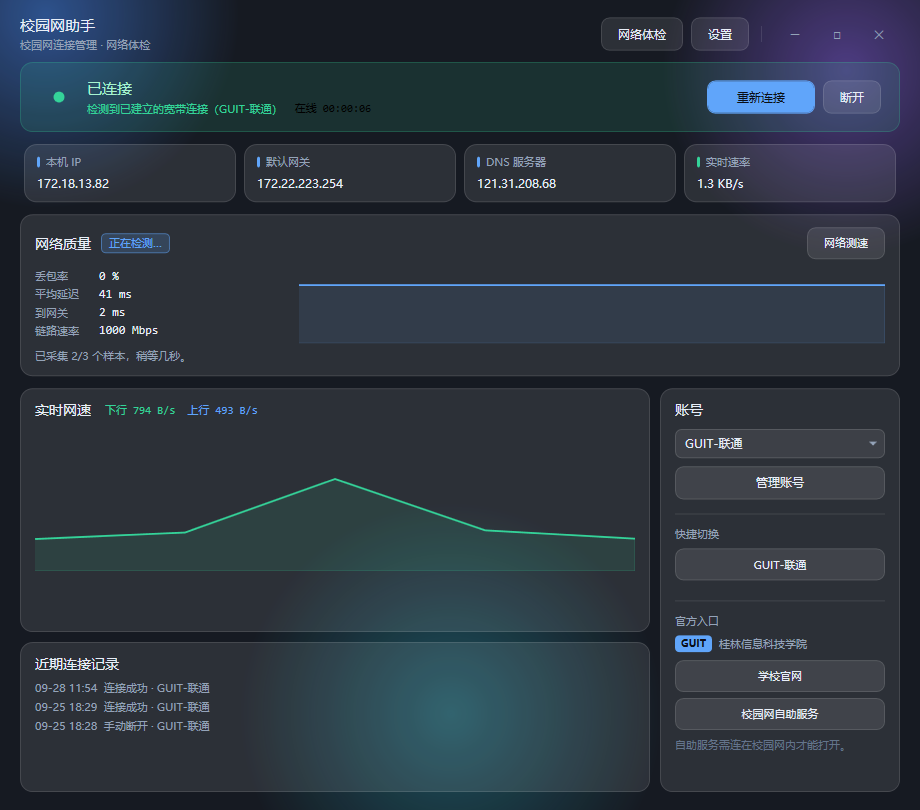
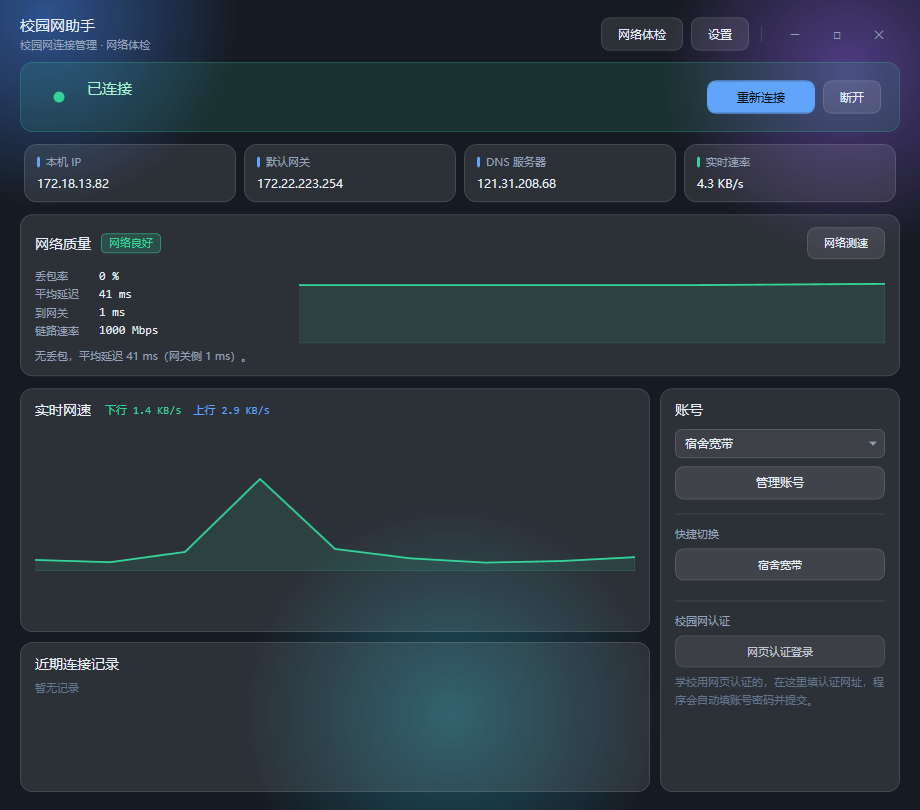
移除校内信息 + 校园网网页认证拨号 + 图形验证码处理
一、去掉全部学校痕迹
- MainWindow：移除 GUIT 标识、学校名称、学校官网 / 自助服务两个按钮
- DialEngine：去掉注释里残留的校内连接名（GUITISP / [GUIT-联通]）
- SiteConfig：自助服务地址改为默认网页认证地址（留空）
- 源码全文检索 guit / 桂林 已无命中

二、校园网认证模块重做
- 原「学校官网」区块改为「校园网认证」：只保留一个入口按钮
- WebAuthWindow：内嵌 IE11 内核浏览器 + 网址/账号/密码三行
  - 自动填表：密码框 → 账号框 → 提交按钮（通用启发式，不写死任何学校）
  - 填值后主动触发 focus/onchange/onkeyup/blur，兼容大多数门户的校验
  - 导航完成后 6 次 × 1.2s 重试窗口，规避页面异步渲染
  - 提交后 5 秒探测外网，回填结果提示
- 网址来源：SiteConfig.DefaultWebAuthUrl 兜底 + 用户手填，可保存

三、图形验证码
- 新增 HasCaptcha()：页面出现验证码控件时只填表、绝不提交
- 明确提示用户手动输入验证码后点登录，程序不代劳

四、配套
- build_check.bat：加入 SiteConfig.cs / KeepAlive.cs / WebAuthWindow.cs 与
  WindowsFormsIntegration.dll 引用
- README：下载与功能说明更新，隐私说明据实重写
- docs/：两张界面截图用通用测试账号重新生成（不再出现真实连接名）

编译：csc 全绿（BUILD SUCCESS）

diff --git a/MainWindow.cs b/MainWindow.cs
@@ -91,28 +91,21 @@ namespace CampusNetHelper
         private Border _historyCard;
         private Border _accountCard;
         private Border _titleBarArea;
-        private Border _guitBadge;              // 「官方入口」里的 GUIT 徽标
-        private TextBlock _guitBadgeText;
 
         internal const string FontUi = "Microsoft YaHei UI, Microsoft YaHei, Segoe UI";
         internal const string FontMono = "Consolas, Microsoft YaHei UI";
         internal const string VersionText = "1.1.0";
 
         // ==================================================================
-        // 官方入口地址
+        // 本校专属默认值
         //
-        // 学校官网 —— 公网可访问，写在这里没有隐私问题。
+        // 这个项目刻意保持**通用** —— 源码里不放任何学校的具体信息。
+        // （校徽、校名、学校官网链接、校内自助服务地址，已于 2026-09-28 全部移除。）
         //
-        // 自助服务 —— 属于校内网地址（只有连着校园网才能打开），是"本校专属信息"，
-        // 所以**不硬编码在源码里**，改由 SiteConfig 提供：
-        //   · SiteConfig.cs         自己的真实地址，已被 .gitignore 排除
+        // 确实需要"本校专属"的默认值统一放 SiteConfig，好处是它不进公开仓库：
+        //   · SiteConfig.cs         自己填的真实值，已被 .gitignore 排除
         //   · SiteConfig.sample.cs  提交到仓库的空模板，首次构建时自动生成上面那个
-        // 留空时界面上不显示这个入口（不给死链）。
-        //
-        // 这两个地址都来自学校官方客户端界面本身，是学校公开给学生使用的。
-        // 本工具只提供"打开链接"，不调用其中的任何接口。
         // ==================================================================
-        internal const string UrlSchool = "https://www.guit.edu.cn";
 
         // ==================================================================
         // 按钮样式（缓存，避免每次创建都解析 XAML）
@@ -1218,73 +1211,20 @@ namespace CampusNetHelper
 
             stack.Children.Add(MakeLabel("校园网认证"));
 
-            // GUIT 标识：小徽标 + 校名。
-            // 这一栏两个入口都是本校的服务，放上校名标识让学生一眼认出来，
-            // 也免得"校园网自助服务"那个内网地址被当成来路不明的外链。
-            var brandRow = new StackPanel
-            {
-                Orientation = Orientation.Horizontal,
-                Margin = new Thickness(0, 8, 0, 2)
-            };
-
-            _guitBadgeText = new TextBlock
-            {
-                Text = "GUIT",
-                FontSize = 10,
-                FontWeight = FontWeights.Bold,
-                Foreground = new SolidColorBrush(Theme.OnAccent)
-            };
-            _guitBadge = new Border
-            {
-                Background = new SolidColorBrush(Theme.Accent),
-                CornerRadius = new CornerRadius(4),
-                Padding = new Thickness(6, 2, 6, 2),
-                VerticalAlignment = VerticalAlignment.Center,
-                Child = _guitBadgeText
-            };
-            brandRow.Children.Add(_guitBadge);
-
-            var schoolName = new TextBlock
-            {
-                Text = "桂林信息科技学院",
-                FontSize = 11,
-                Margin = new Thickness(7, 0, 0, 0),
-                VerticalAlignment = VerticalAlignment.Center,
-                Foreground = new SolidColorBrush(Theme.TextMuted)
-            };
-            _mutedTexts.Add(schoolName);
-            brandRow.Children.Add(schoolName);
-
-            stack.Children.Add(brandRow);
-
-            // 网页认证入口：有些学校的校园网不是 PPPoE 拨号，
-            // 而是打开一个网页填账号密码点登录。这个按钮就是干那个的。
+            // 这张卡片现在只做一件事：网页认证登录。
+            //
+            // 原来这里放的是"本校专属"的几个入口（校徽 + 校名、学校官网、校园网自助服务）。
+            // 为了让整个项目保持**通用**、也为了公开仓库里不出现任何本校信息，已经全部移除。
+            // 学校相关的默认值统一放在 SiteConfig.cs 里（已被 .gitignore 排除，不进公开仓库）。
             var btnAuth = MakeGhostButton("网页认证登录", delegate() { OpenWebAuthWindow(); });
             btnAuth.HorizontalAlignment = HorizontalAlignment.Stretch;
-            btnAuth.Margin = new Thickness(0, 6, 0, 6);
+            btnAuth.Margin = new Thickness(0, 8, 0, 0);
             btnAuth.FontSize = 11;
             stack.Children.Add(btnAuth);
 
-            var btnSite = MakeGhostButton("学校官网", delegate() { OpenUrl(UrlSchool); });
-            btnSite.HorizontalAlignment = HorizontalAlignment.Stretch;
-            btnSite.Margin = new Thickness(0, 6, 0, 6);
-            btnSite.FontSize = 11;
-            stack.Children.Add(btnSite);
-
-            // 自助服务是校内专属入口，地址来自 SiteConfig（不在公开源码里）。
-            // 没配置就不显示 —— 免得给出一个点不开的死链。
-            if (SiteConfig.SelfServiceUrl.Length > 0)
-            {
-                var btnSelf = MakeGhostButton("校园网自助服务",
-                    delegate() { OpenUrl(SiteConfig.SelfServiceUrl); });
-                btnSelf.HorizontalAlignment = HorizontalAlignment.Stretch;
-                btnSelf.FontSize = 11;
-                stack.Children.Add(btnSelf);
-
-                var linkHint = MakeHint("自助服务需连在校园网内才能打开。");
-                linkHint.Margin = new Thickness(0, 8, 0, 0);
-                stack.Children.Add(linkHint);
-            }
+            var authHint = MakeHint("学校用网页认证的，在这里填认证网址，程序会自动填账号密码并提交。");
+            authHint.Margin = new Thickness(0, 8, 0, 0);
+            stack.Children.Add(authHint);
 
             card.Child = stack;
             return card;
@@ -1324,16 +1264,6 @@ namespace CampusNetHelper
             foreach (TextBlock t in _mutedTexts)
             {
                 t.Foreground = new SolidColorBrush(Theme.TextMuted);
-            }
-
-            // GUIT 徽标
-            if (_guitBadge != null)
-            {
-                _guitBadge.Background = new SolidColorBrush(Theme.Accent);
-            }
-            if (_guitBadgeText != null)
-            {
-                _guitBadgeText.Foreground = new SolidColorBrush(Theme.OnAccent);
             }
 
             // 顶栏按钮

diff --git a/WebAuthWindow.cs b/WebAuthWindow.cs
@@ -493,6 +493,22 @@ namespace CampusNetHelper
                 SetValue(pw, pass);
 
                 WinForms.HtmlElement submit = FindSubmit(all);
+
+                // ⚠ 有图形验证码就**只填不提交** —— 见 HasCaptcha 的注释。
+                // 验证码那格是空的，硬提交必然失败；而学校普遍对"连续登录失败"有次数限制，
+                // 反复失败可能直接把账号锁一段时间。宁可让用户自己点一下。
+                if (HasCaptcha(all))
+                {
+                    SetStatus("这个页面有图形验证码 —— 账号密码已经帮你填好了，"
+                        + "验证码需要你自己看一眼填进去，然后点页面上的「登录」按钮。");
+                    if (lblFound != null)
+                    {
+                        lblFound.Text = "识别结果：账号框「" + Describe(us) + "」 密码框「" + Describe(pw)
+                            + "」；页面有图形验证码 → 已填好，但不自动提交";
+                    }
+                    return true;
+                }
+
                 if (submit == null)
                 {
                     SetStatus("账号密码已填好，但没找到「登录」按钮 —— 请手动点一下页面上的登录。");
@@ -622,6 +638,52 @@ namespace CampusNetHelper
             }
             catch { }
             return list;
+        }
+
+        /// <summary>
+        /// 判断页面上有没有图形验证码。
+        ///
+        /// 为什么必须检测、而且检测到就**不能自动提交**：
+        ///   验证码的设计目的就是"证明这一步是人在操作"。
+        ///   程序把账号密码填好就提交 → 验证码那格是空的 → 提交必然失败。
+        ///   而学校普遍对"连续登录失败"有次数限制，反复失败可能把账号锁一段时间。
+        ///   所以宁可停手，让用户自己看一眼验证码、填进去、点登录。
+        ///
+        /// 这里**刻意不做验证码自动识别**：
+        ///   ① 识别验证码等于绕过它 —— 它的存在就是为了挡住自动化，这是它的设计意图；
+        ///   ② 现在学校多用滑块 / 点选 / 行为验证（极验、腾讯验证码那一类），
+        ///      根本不是图片字符，OCR 也认不出来。
+        ///   结论：这件事交给用户，只在界面上把话说明白。
+        /// </summary>
+        private static bool HasCaptcha(List<WinForms.HtmlElement> all)
+        {
+            string[] keys = new string[]
+            {
+                "captcha", "verifycode", "verify_code", "checkcode", "check_code",
+                "validatecode", "validate_code", "vcode", "authcode", "imgcode",
+                "randcode", "seccode", "verificationcode", "yzm", "yanzhengma",
+                "captchaimg", "codeimg"
+            };
+
+            foreach (WinForms.HtmlElement el in all)
+            {
+                string tag = TagOf(el);
+                if (tag != "img" && tag != "input" && tag != "canvas"
+                    && tag != "span" && tag != "div" && tag != "label" && tag != "a") continue;
+
+                string blob = (AttrOf(el, "id") + " " + AttrOf(el, "name") + " "
+                    + AttrOf(el, "src") + " " + AttrOf(el, "alt") + " "
+                    + AttrOf(el, "class") + " " + AttrOf(el, "title") + " "
+                    + AttrOf(el, "onclick")).ToLowerInvariant();
+
+                if (blob.IndexOf("验证码", StringComparison.Ordinal) >= 0) return true;
+
+                foreach (string k in keys)
+                {
+                    if (blob.IndexOf(k, StringComparison.Ordinal) >= 0) return true;
+                }
+            }
+            return false;
         }
 
         private static string DescribeDoc(List<WinForms.HtmlElement> all)

diff --git a/SiteConfig.sample.cs b/SiteConfig.sample.cs
@@ -1,24 +1,27 @@
 namespace CampusNetHelper
 {
     /// <summary>
-    /// 本校专属配置 —— **这是模板文件，可以提交到版本库**。
+    /// 本校专属默认值 —— **这是模板文件，可以提交到版本库**。
     ///
     /// 首次构建时，build_check.bat 会自动把这个文件复制成 SiteConfig.cs。
-    /// 而 SiteConfig.cs 已被 .gitignore 排除 —— 你自己学校的地址不会进公开仓库。
+    /// 而 SiteConfig.cs 已被 .gitignore 排除 —— 你自己的学校信息不会进公开仓库。
     ///
-    /// 想换成自己学校：直接改 SiteConfig.cs（或改这里再删掉 SiteConfig.cs 重新构建），
-    /// 填上地址后重新编译即可。
+    /// 为什么要留这么一个文件：
+    ///   这个项目刻意保持**通用** —— 源码里不放任何学校的具体信息
+    ///   （校徽、校名、学校官网、校内地址都已经移除）。
+    ///   但你自己用的时候，肯定希望默认值已经填好，不用每次手输。
+    ///   两者兼顾的办法就是：通用逻辑写在源码里，本校专属的值放这里。
     /// </summary>
     internal static class SiteConfig
     {
         /// <summary>
-        /// 校园网自助服务入口。
+        /// 网页认证的默认网址。
         ///
-        /// 这类入口通常只有校内网才能访问（比如 10.x / 172.16.x / 192.168.x 开头的地址），
-        /// 填在源码里等于把学校的内部地址公开出去，所以单独放到这个文件里。
+        /// 留空 → 界面上就是空的，由使用者自己填（公开仓库构建出来的就是这个状态）。
+        /// 填上 → 编译出来的版本打开就是预填好的，适合发给自己学校的同学。
         ///
-        /// 留空 → 主界面「官方入口」里不显示这个按钮（避免给出一个点不开的死链）。
+        /// 例如："http://10.0.0.1/srun_portal_pc.php"
         /// </summary>
-        internal const string SelfServiceUrl = "";
+        internal const string DefaultWebAuthUrl = "";
     }
 }

diff --git a/DialEngine.cs b/DialEngine.cs
@@ -24,7 +24,7 @@ namespace CampusNetHelper
         /// 这样带来三个好处：
         ///   ① rasdial.exe 默认就读这个文件，创建完立即可拨；
         ///   ② 系统「网络和共享中心」里能看到同一个连接，两边始终一致；
-        ///   ③ 学校官方客户端建的连接（如 GUITISP）也能被本工具读到并直接使用。
+        ///   ③ 学校官方客户端建的连接也能被本工具读到并直接使用。
         /// </summary>
         public static string PhonebookPath
         {
@@ -405,7 +405,7 @@ namespace CampusNetHelper
         ///
         /// Windows 电话簿的条目里有两个字段：
         ///   ApnInfoUsername / ApnInfoPassword
-        /// 学校客户端建的连接通常会把真实宽带账号写在这里（实测本机 [GUIT-联通] 两项都有值），
+        /// 学校客户端建的连接通常会把真实宽带账号写在这里（实测本机两项都有值），
         /// 因此可以做到"选一个连接就把账号密码一起带进来"。
         /// 读不到的（例如凭据被存进凭据管理器、字段留空）就返回空串，让用户自己补。
         /// </summary>

diff --git a/MainWindow.Logic.cs b/MainWindow.Logic.cs
@@ -258,7 +258,10 @@ namespace CampusNetHelper
 
         internal string WebAuthUrl()
         {
-            return ConfigStore.GetString(_settings, "WebAuthUrl", "");
+            string v = ConfigStore.GetString(_settings, "WebAuthUrl", "");
+            if (!string.IsNullOrEmpty(v)) return v;
+            // 没填过就用编译时的默认值（本校专属，放在 SiteConfig，不进公开仓库）
+            return SiteConfig.DefaultWebAuthUrl;
         }
 
         internal void SaveWebAuthUrl(string url)

diff --git a/README.md b/README.md
@@ -228,15 +228,18 @@ build_check.bat
 
 双击即可编译，产物输出到 `dist\CampusNetHelper.exe`。
 
-### 本校专属配置
+### 本校专属默认值
 
-校内网地址（自助服务入口之类）**不硬编码在源码里**，以免公开仓库泄露学校内部地址：
+这个项目刻意保持**通用** —— 源码里不放任何学校的具体信息（校徽、校名、学校官网、校内地址都不在）。
+
+但你自己用的时候，会希望默认值已经填好（比如网页认证的网址），不用每次手输。所以：
 
 - 仓库里只有空模板 `SiteConfig.sample.cs`
 - 首次构建时，`build_check.bat` 会自动把它复制成 `SiteConfig.cs`
-- `SiteConfig.cs` 已被 `.gitignore` 排除 —— 你自己学校的地址不会进版本库
+- `SiteConfig.cs` 已被 `.gitignore` 排除 —— 你自己的学校信息不会进版本库
 
-想填自己的学校：编辑 `SiteConfig.cs` 里的 `SelfServiceUrl`，重新编译即可。**留空则界面上不显示该入口**（不会给出点不开的死链）。
+想预设自己学校的认证网址：编辑 `SiteConfig.cs` 里的 `DefaultWebAuthUrl`，重新编译即可。
+**留空则由使用者自己在界面上填**（公开仓库构建出来的就是这个状态）。
 
 > 注意：编译出来的 exe 里**必然**带着这个地址，否则功能没法用 —— 「源码不公开」不等于「exe 里没有」。
 
@@ -275,7 +278,7 @@ campus-net-helper/
 ├── AutostartHelper.cs     开机自启（计划任务）
 ├── Logger.cs              滚动日志（7 天自动清理）
 ├── HealthCheckStep.cs     体检结果数据结构
-├── SiteConfig.sample.cs   本校地址配置模板（空；真实值在 SiteConfig.cs，不入库）
+├── SiteConfig.sample.cs   本校默认值模板（空；真实值在 SiteConfig.cs，不入库）
 ├── assets/                图标（logo.ico / logo.png）
 ├── docs/                  README 用的界面截图
 └── build_check.bat        一键编译脚本
